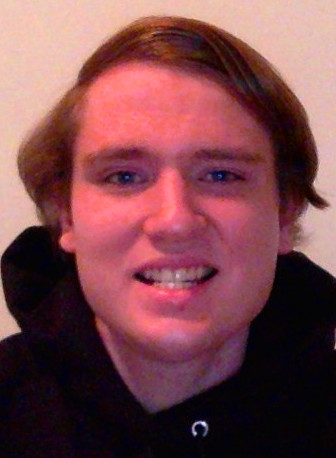
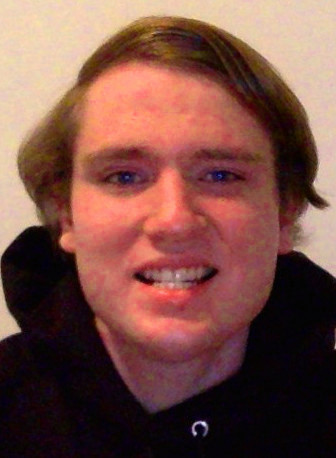
update

Changed region(s): [[0.1786, 0.0917, 0.744, 0.7336], [0.3571, 0.0306, 0.5357, 0.0917], [0.3274, 0.6114, 0.3571, 0.6419]]

diff --git a/people.html b/people.html
@@ -87,14 +87,14 @@ while(x=eval(x));
 //]]>
 </script><br/>
         </div>
-           <div class="col-1-1"></div>
+           <div class="col-1-1" style="padding-bottom:10px"></div>
 					<div class="push-1-12 col-1-12 dynabox">
-               <img src="img/people/default2.png" alt="Ellen Weinheimer" class="dyna">
+               <img src="img/people/eweinheimer.jpg" alt="Ellen Weinheimer" class="dyna">
             </div>
             <div class="col-6-12">
                 <p class="namex">Ellen Weinheimer</p>
 				 <em>Ph.D. Student in Biology</em><br>
-                <div style="font-size:10.5pt; padding-top:5px;">Research Interests:   </div>
+                <div style="font-size:10.5pt; padding-top:5px;">Research Interests: Genetics of speciation, Phylogenetics, Conservation Biology</div>
 								<script type="text/javascript">
 //<![CDATA[
 <!--
@@ -146,8 +146,10 @@ while(x=eval(x));
 			<p class="namex">Roddra Johnson</p>
 			<em>Undergraduate Researcher</em>
 		</div>
+           <div class="col-1-1" style="padding-bottom:10px"></div>
     <div class="push-1-12 col-1-1 center" style="border-top: 1px solid white;"></div>
         <div class="col-6-12 push-1-12">
+           <div class="col-1-1" style="padding-bottom:10px"></div>
             <h5>Past Undergraduate Researchers</h5>
 
             <ul class="nobullet">
